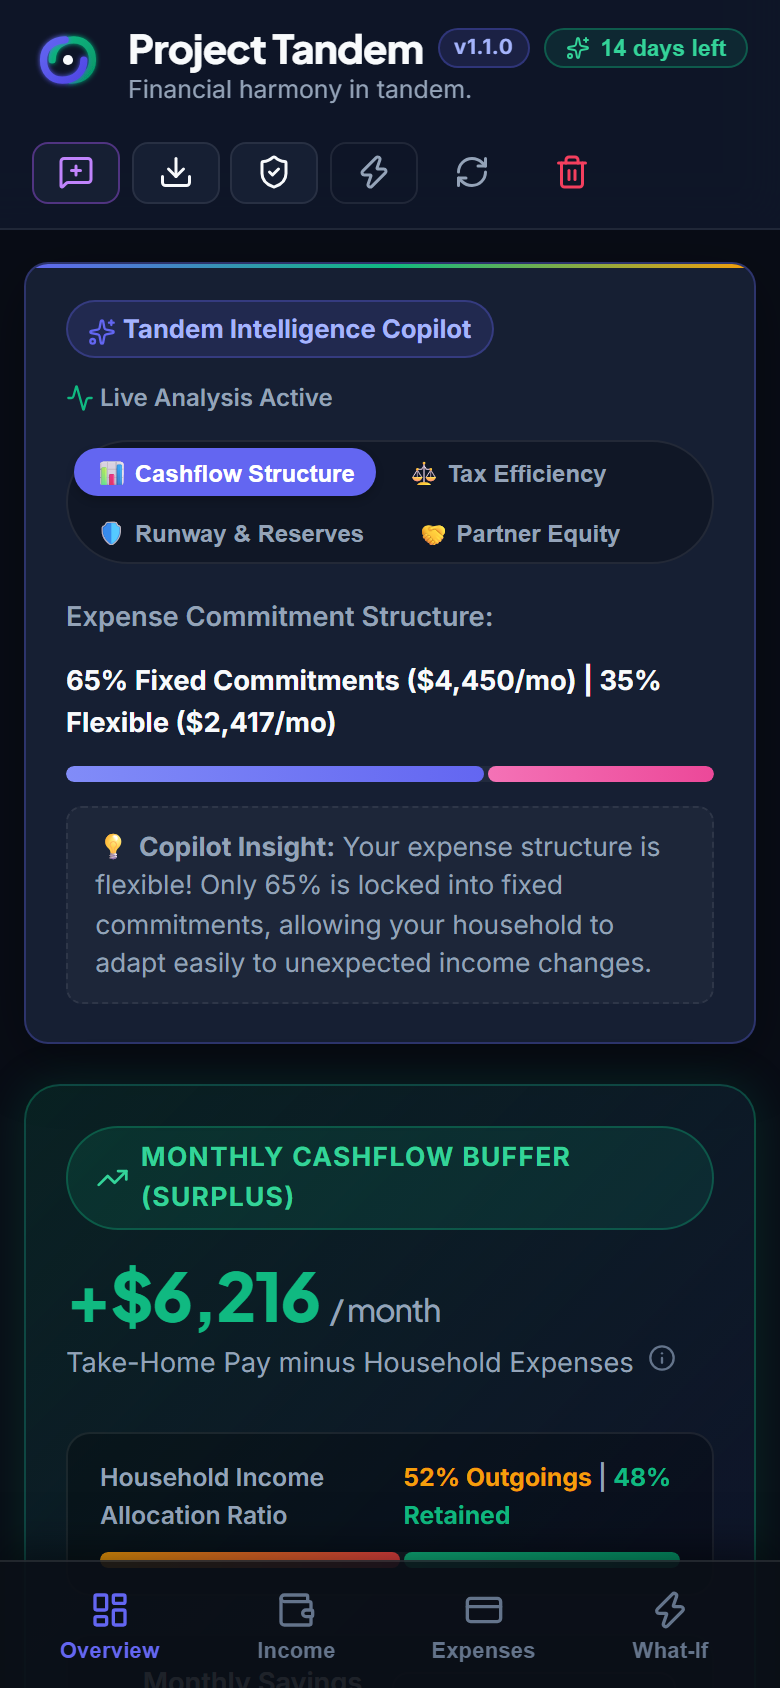
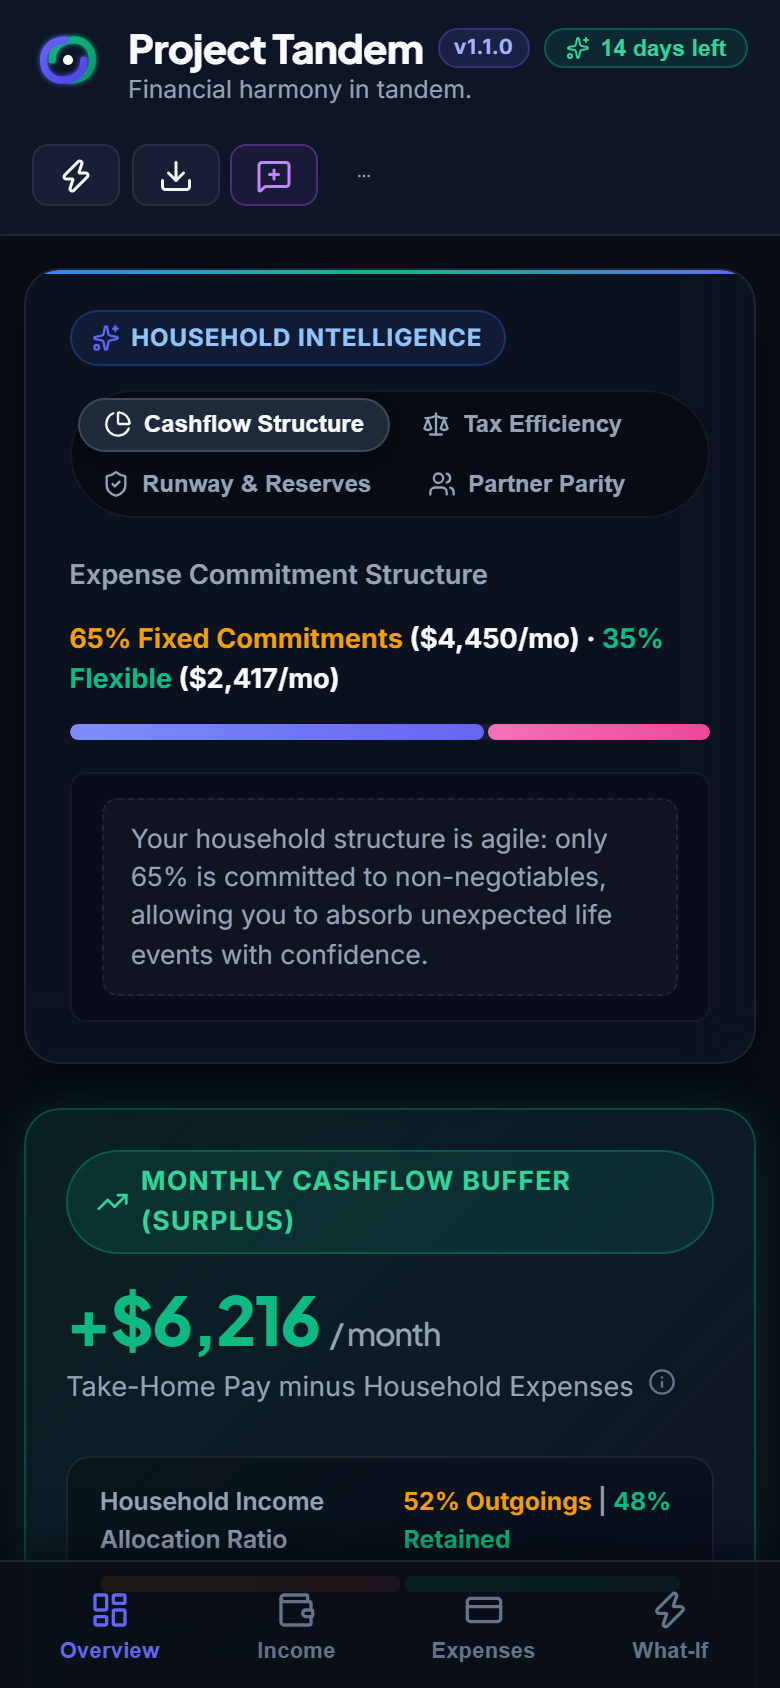
style(theme): establish strict 4-color luxury FinTech palette (Obsidian, Indigo, Emerald, Coral)

diff --git a/src/index.css b/src/index.css
@@ -1,14 +1,14 @@
-/* Modern Design System - Tandem Household Financial Clarity */
+/* Strict 4-Color Monzo/Linear FinTech Palette */
 :root {
   --font-heading: 'Plus Jakarta Sans', -apple-system, BlinkMacSystemFont, 'Segoe UI', Roboto, sans-serif;
   --font-body: 'Inter', -apple-system, BlinkMacSystemFont, 'Segoe UI', Roboto, sans-serif;
 
-  /* Strict 3-Tone Obsidian FinTech Palette */
-  --bg-main: #090D16;
-  --bg-card: #111726;
-  --bg-card-subtle: #161F33;
-  --bg-card-hover: #1E283F;
-  --bg-input: #0C121E;
+  /* 1. Base Neutrals (Obsidian Canvas & Slate Surfaces) */
+  --bg-main: #060913;
+  --bg-card: #0D1322;
+  --bg-card-subtle: #121A2D;
+  --bg-card-hover: #18223B;
+  --bg-input: #090D18;
   
   --border-color: rgba(255, 255, 255, 0.08);
   --border-focus: rgba(99, 102, 241, 0.5);
@@ -17,45 +17,44 @@
   --text-muted: #94A3B8;
   --text-dim: #64748B;
 
-  /* Primary Brand Accent: Electric Indigo */
+  /* 2. Primary Brand Accent: Sapphire Indigo */
   --primary: #6366F1;
   --primary-hover: #4F46E5;
   --primary-light: rgba(99, 102, 241, 0.12);
-  --primary-glow: 0 0 20px rgba(99, 102, 241, 0.25);
+  --primary-border: rgba(99, 102, 241, 0.3);
 
-  /* Semantic Intent Colors */
+  /* 3. Positive / Growth Accent: Vibrant Emerald */
   --color-surplus: #10B981;
   --color-surplus-bg: rgba(16, 185, 129, 0.12);
   --color-surplus-border: rgba(16, 185, 129, 0.3);
 
+  /* 4. Attention / Deficit Accent: Coral Crimson */
   --color-deficit: #F43F5E;
   --color-deficit-bg: rgba(244, 63, 94, 0.12);
   --color-deficit-border: rgba(244, 63, 94, 0.3);
 
-  --warning: #F59E0B;
-  --warning-bg: rgba(245, 158, 11, 0.12);
-  --info: #6366F1;
-  --info-bg: rgba(99, 102, 241, 0.12);
-
-  /* Category Palette Tokens (Harmonized Dark Pastels) */
+  /* Harmonized Category Tokens (Disciplined Indigo/Emerald Tints) */
   --cat-housing: #6366F1;
-  --cat-living: #3B82F6;
-  --cat-transport: #06B6D4;
+  --cat-living: #818CF8;
+  --cat-transport: #A5B4FC;
   --cat-insurance: #10B981;
-  --cat-personal: #EC4899;
-  --cat-debt: #F59E0B;
+  --cat-personal: #34D399;
+  --cat-debt: #F43F5E;
+
+  --warning: #F59E0B;
+  --info: #6366F1;
 
   /* Radius & Shadows */
   --radius-sm: 8px;
   --radius-md: 12px;
-  --radius-lg: 18px;
+  --radius-lg: 16px;
   --radius-full: 9999px;
 
-  --shadow-sm: 0 2px 4px rgba(0, 0, 0, 0.2);
-  --shadow-md: 0 8px 16px rgba(0, 0, 0, 0.3);
-  --shadow-lg: 0 16px 32px rgba(0, 0, 0, 0.4);
-  --shadow-glow-surplus: 0 0 24px rgba(16, 185, 129, 0.15);
-  --shadow-glow-deficit: 0 0 24px rgba(244, 63, 94, 0.15);
+  --shadow-sm: 0 2px 4px rgba(0, 0, 0, 0.3);
+  --shadow-md: 0 8px 24px rgba(0, 0, 0, 0.45);
+  --shadow-lg: 0 16px 40px rgba(0, 0, 0, 0.6);
+  --shadow-glow-surplus: 0 0 24px rgba(16, 185, 129, 0.12);
+  --shadow-glow-deficit: 0 0 24px rgba(244, 63, 94, 0.12);
 }
 
 /* Reset & Global Base */

diff --git a/src/components/Header.jsx b/src/components/Header.jsx
@@ -92,11 +92,11 @@ export function Header({
 
           {/* Feedback & Ideas */}
           <button 
-            className="btn btn-secondary btn-sm feedback-pill-btn"
+            className="btn btn-secondary btn-sm"
             onClick={onOpenFeedback}
             title="Request features and share feedback"
           >
-            <MessageSquarePlus className="icon-sm text-purple" />
+            <MessageSquarePlus className="icon-sm text-primary" />
             <span className="btn-label-desktop">Feedback & Ideas</span>
           </button>
 
